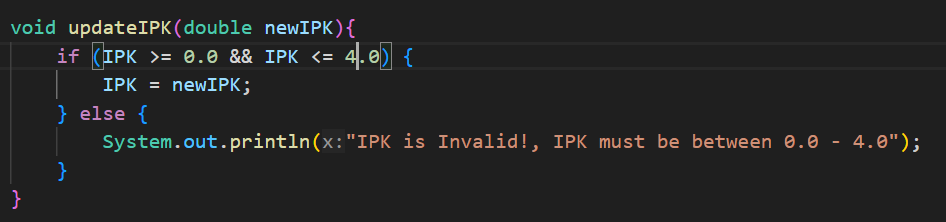
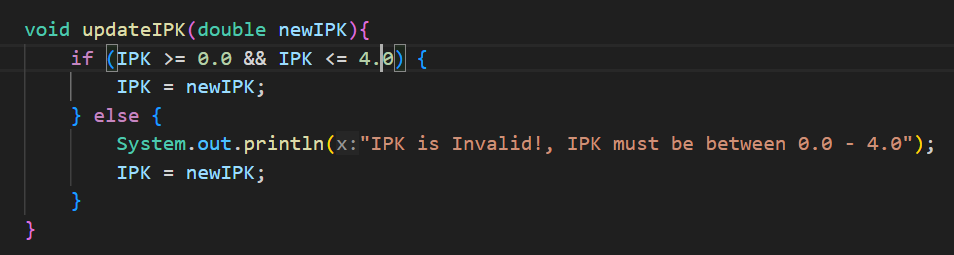
Added Experiment 2

Changed region(s): [[0.0, 0.0811, 0.981, 0.7297], [0.0613, 0.7297, 0.092, 0.8378], [0.0, 0.8649, 0.0613, 0.9459]]

diff --git a/Jobsheet02/Tugas2First.java b/Jobsheet02/Tugas2First.java
@@ -9,7 +9,7 @@ public class Tugas2First {
         student1.IPK = 4.1;
         student1.printData();
         student1.changeClass("TI-2I");
-        student1.updateIPK(4.0);
+        student1.updateIPK(3.9);
         student1.printData(); 
 
         Tugas2Zero student2 = new Tugas2Zero("244107020227", "Ridho", "TI-1I", 3.6);

diff --git a/Jobsheet02/Tugas2Zero.java b/Jobsheet02/Tugas2Zero.java
@@ -29,6 +29,7 @@ public Tugas2Zero(String id, String name, String cls, double ipk){
             IPK = newIPK;
         } else {
             System.out.println("IPK is Invalid!, IPK must be between 0.0 - 4.0");
+            IPK = newIPK;
         }
     }
 

diff --git a/Jobsheet02/reportJS2.md b/Jobsheet02/reportJS2.md
@@ -44,3 +44,15 @@
 
 5. The evaluate() method evaluates the student performance by evaluating the value of the students GPA by the parameter given. It returns a String value of either cumlaude, good, fair and poor
 
+# 2.2 Experiment 2
+
+### 2.2.2 Verification Experiments Result
+
+![Screenshot](/img/New3.png)
+
+### 2.2.3 Question Answers
+1. ![Screenshot](/img/New4.png)
+2. To access an object attributes we use the don notation (.) followed by variable
+3. Because the first print() is executed before the changeClass() and updateGPA() ran. So the first print() output is before and the second print() is after the two methods are executed.
+
+
